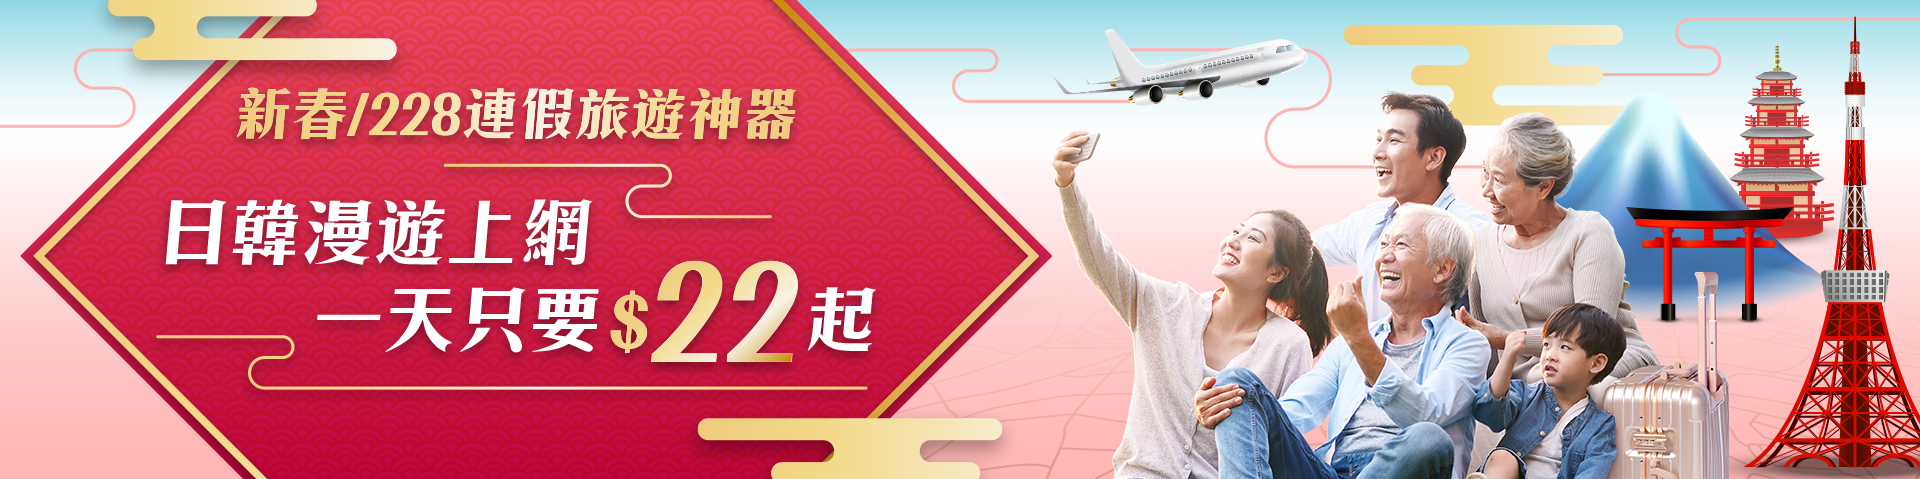
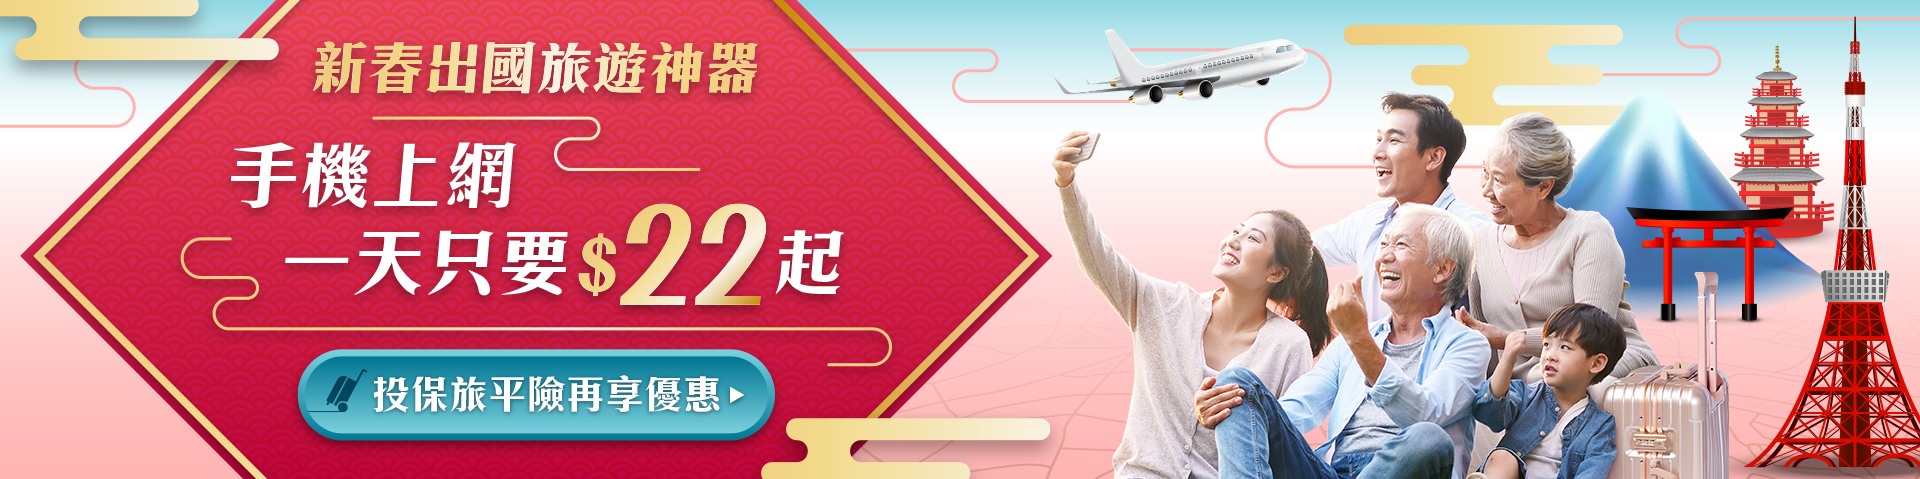
國際漫遊
更新投保旅平險圖片
設定連結跳轉

Changed region(s): [[0.0, 0.0, 0.5625, 1.0], [0.0938, 0.6138, 0.125, 0.643]]

diff --git a/demo/international/roaming/index.html b/demo/international/roaming/index.html
@@ -4841,8 +4841,8 @@
 
     <div class="container_page">
         <div class="kv">
-            <img class="img_pc" src="img/KV.jpg" border="0">
-            <img class="img_moblie" src="img/KV_m.jpg" border="0">
+            <a href="#discount" onclick="gtag('event', 'Travel_insurance', {'event_category': 'KV', 'event_label': 'KV'});"><img class="img_pc" src="img/KV.jpg" border="0"></a>
+            <a href="#discount" onclick="gtag('event', 'Travel_insurance', {'event_category': 'KV_m', 'event_label': 'KV_m'});"><img class="img_moblie" src="img/KV_m.jpg" border="0"></a>
         </div>
 
 
